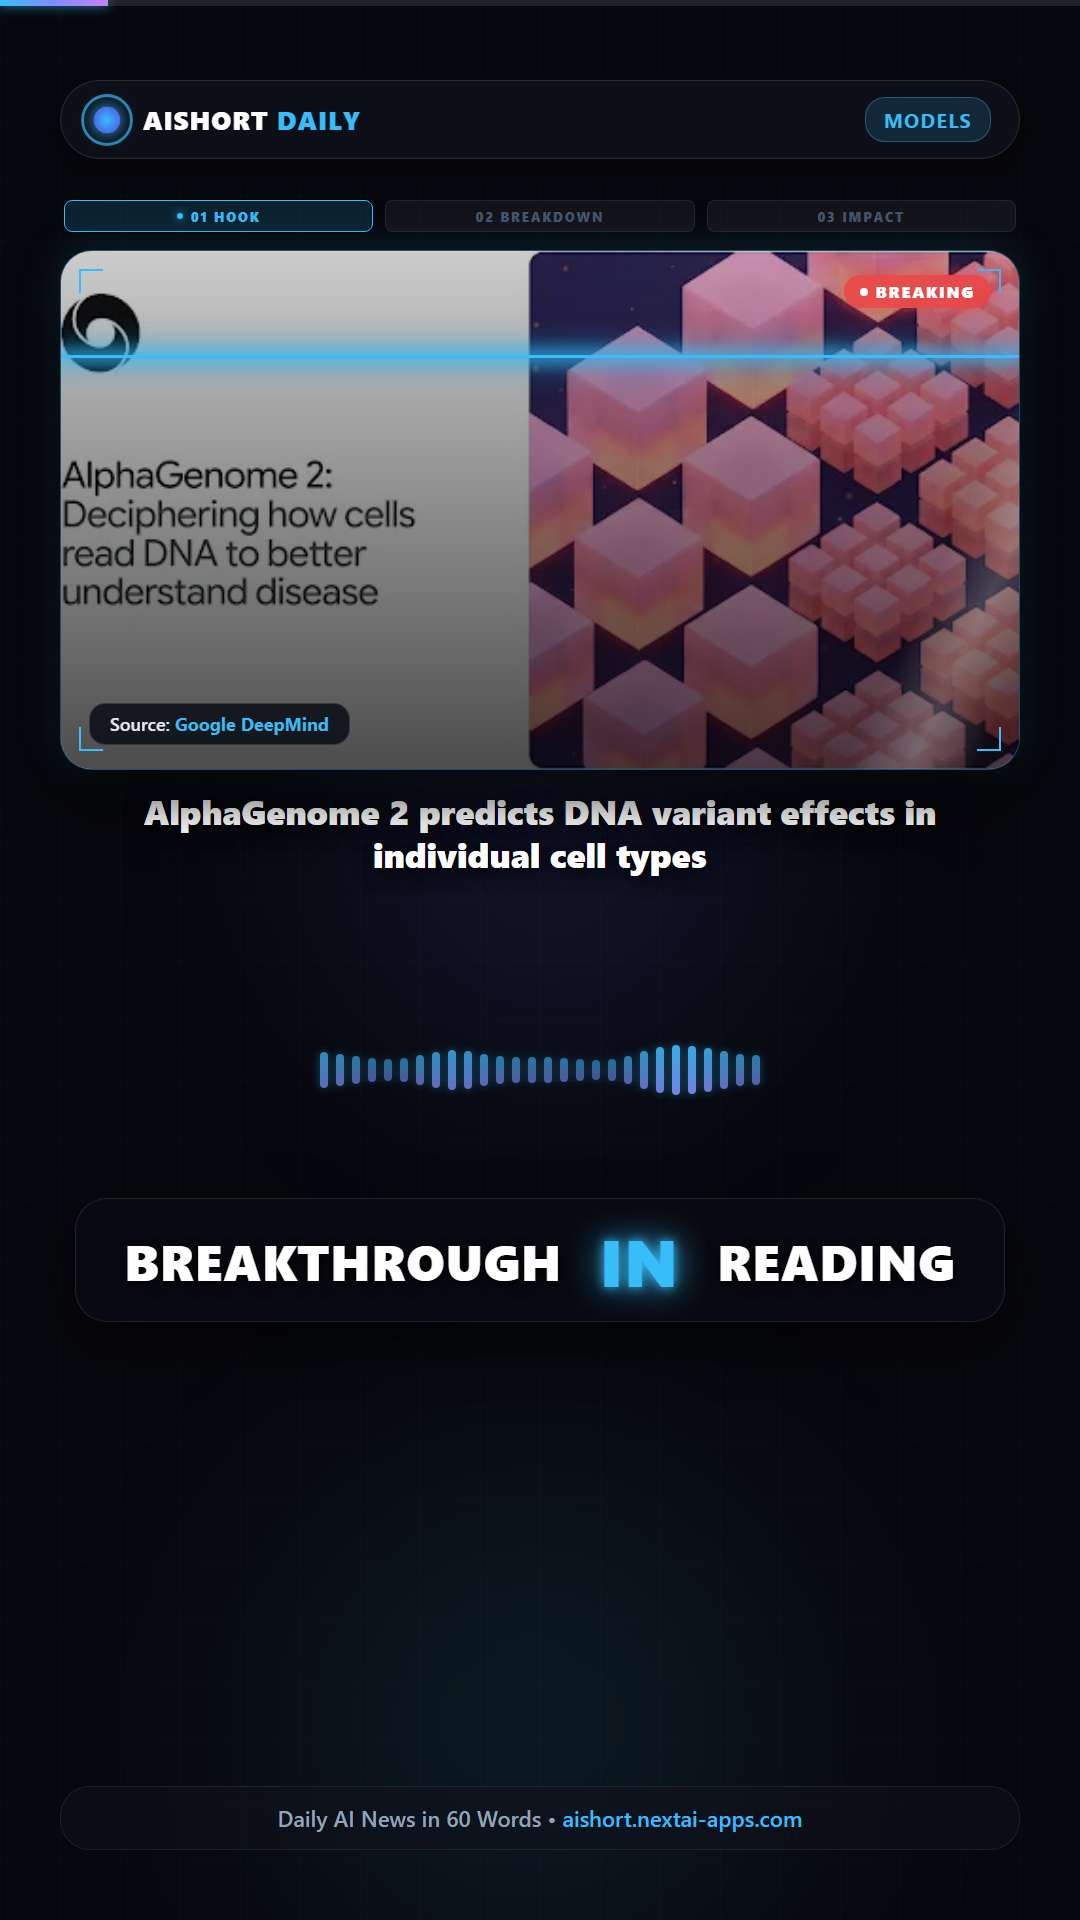
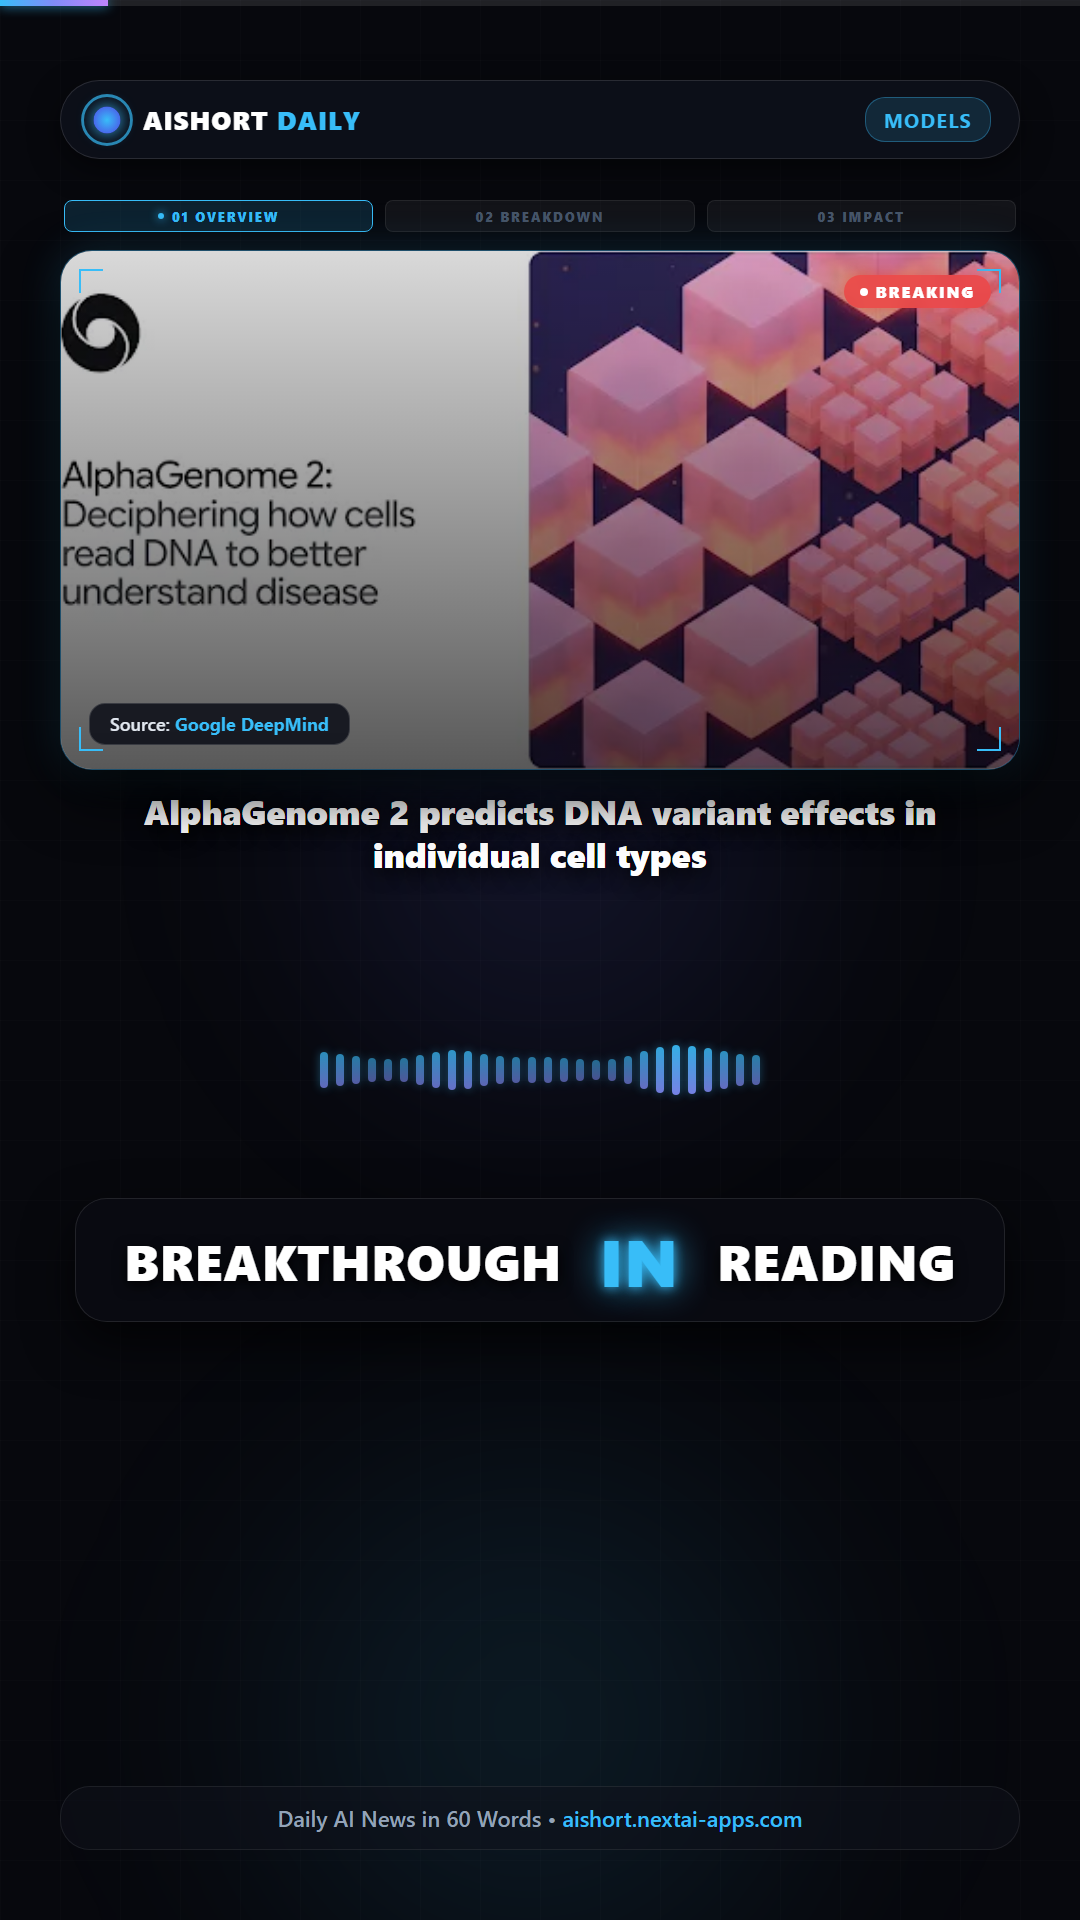
fix(video): remove scanline and sheen light sweeps; rename HOOK to OVERVIEW in chapter bar

Changed region(s): [[0.0611, 0.1562, 0.9472, 0.2188], [0.825, 0.25, 0.9472, 0.4062], [0.1833, 0.0938, 0.2444, 0.125]]

diff --git a/src/video/components/DynamicVisualStage.tsx b/src/video/components/DynamicVisualStage.tsx
@@ -47,14 +47,6 @@ export const DynamicVisualStage: React.FC<DynamicVisualStageProps> = ({ story, s
     extrapolateRight: 'clamp',
   });
 
-  // Cyber HUD Scanner line: sweeps down the image every 75 frames (2.5s)
-  const scanProgress = (frame % 75) / 75;
-  const scanY = interpolate(scanProgress, [0, 1], [-10, 560]);
-
-  // Specular Light Sheen: sweeps across the card diagonally every 110 frames
-  const sheenProgress = (frame % 110) / 110;
-  const sheenX = interpolate(sheenProgress, [0, 1], [-400, 1200]);
-
   // Scene 1 exit animation
   const s1ExitProgress = interpolate(frame, [scene1End - 15, scene1End], [1, 0], {
     extrapolateLeft: 'clamp',
@@ -117,7 +109,7 @@ export const DynamicVisualStage: React.FC<DynamicVisualStageProps> = ({ story, s
         }}
       >
         {[
-          { label: '01 HOOK', active: currentScene === 1, done: currentScene > 1 },
+          { label: '01 OVERVIEW', active: currentScene === 1, done: currentScene > 1 },
           { label: '02 BREAKDOWN', active: currentScene === 2, done: currentScene > 2 },
           { label: '03 IMPACT', active: currentScene === 3, done: currentScene > 3 },
         ].map((step, idx) => (
@@ -210,36 +202,7 @@ export const DynamicVisualStage: React.FC<DynamicVisualStageProps> = ({ story, s
               style={{
                 position: 'absolute',
                 inset: 0,
-                background: 'linear-gradient(180deg, rgba(0,0,0,0.2) 0%, rgba(0,0,0,0.7) 100%)',
-              }}
-            />
-
-            {/* CYBER HUD SCANLINE (Animated Laser Sweep) */}
-            <div
-              style={{
-                position: 'absolute',
-                top: scanY,
-                left: 0,
-                right: 0,
-                height: 3,
-                backgroundColor: '#38bdf8',
-                boxShadow: '0 0 16px 4px rgba(56, 189, 248, 0.9), 0 0 30px 8px rgba(14, 165, 233, 0.5)',
-                pointerEvents: 'none',
-              }}
-            />
-
-            {/* SPECULAR LIGHT SHEEN (Diagonal 45° sweep) */}
-            <div
-              style={{
-                position: 'absolute',
-                top: -150,
-                bottom: -150,
-                left: sheenX,
-                width: 120,
-                background:
-                  'linear-gradient(90deg, transparent 0%, rgba(255, 255, 255, 0.22) 50%, transparent 100%)',
-                transform: 'rotate(25deg)',
-                pointerEvents: 'none',
+                background: 'linear-gradient(180deg, rgba(0,0,0,0.15) 0%, rgba(0,0,0,0.65) 100%)',
               }}
             />
 
@@ -672,3 +635,4 @@ export const DynamicVisualStage: React.FC<DynamicVisualStageProps> = ({ story, s
     </div>
   );
 };
+
